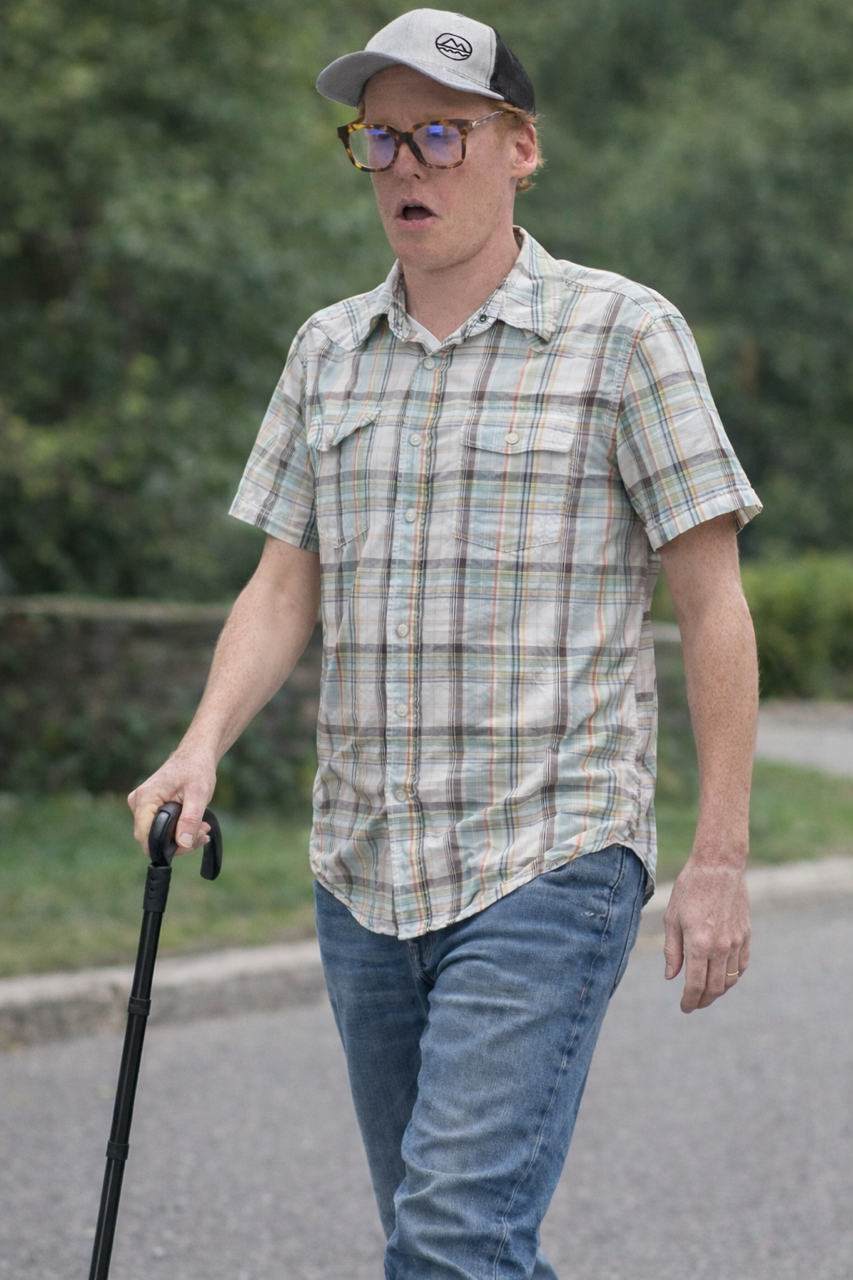
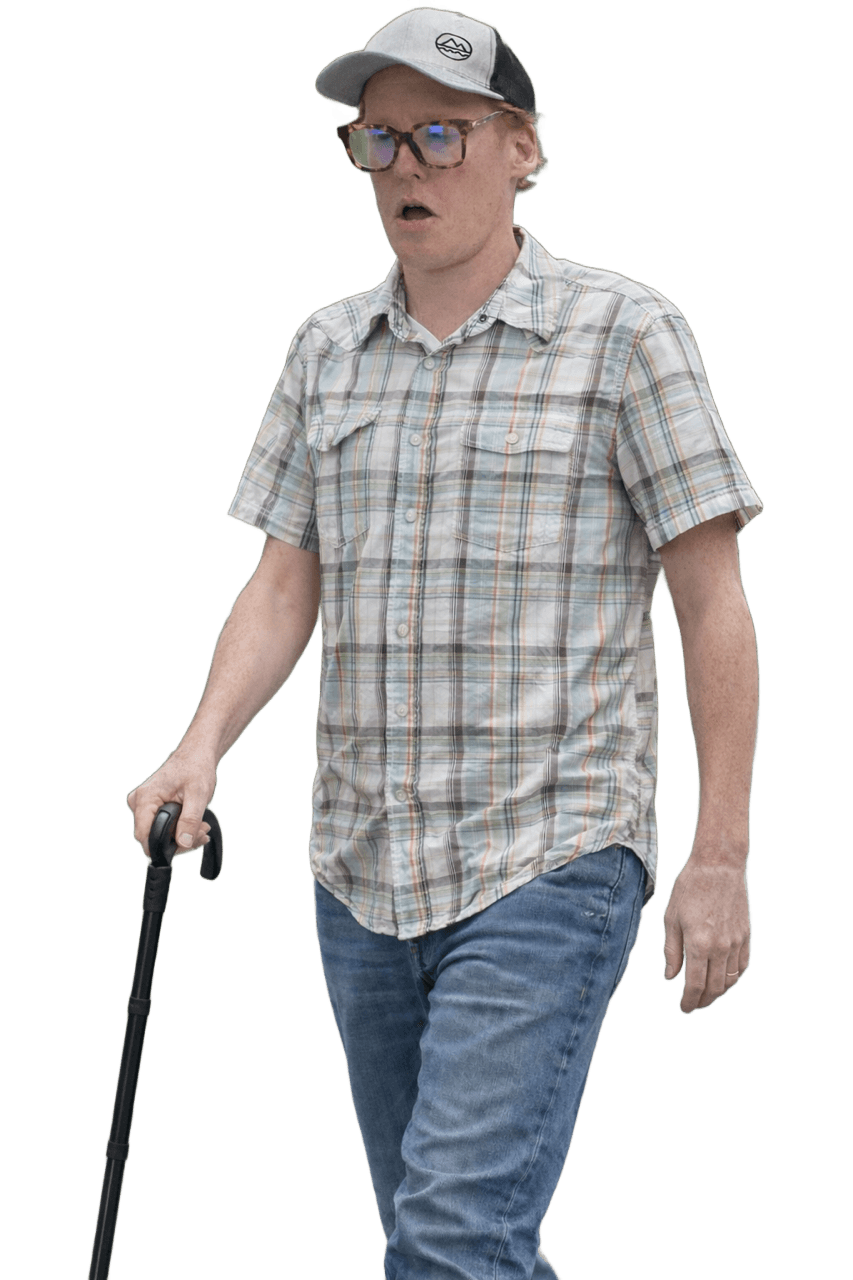
Remove walker background + add wet spot on pants
- Background removed from walker.png for clean cutout
- CSS wet spot overlay on the crotch area
- Removed photo border/shadow since it's now a transparent cutout

diff --git a/tracker.html b/tracker.html
@@ -2275,14 +2275,27 @@
         border-right: 6px solid transparent;
         border-top: 6px solid #fff;
       }
+      .walker-photo-wrap {
+        position: relative;
+        display: inline-block;
+      }
       .walker-photo {
         width: 90px;
         height: 140px;
         object-fit: cover;
         object-position: center top;
-        border-radius: 6px;
-        border: 2px solid rgba(255,255,255,0.6);
-        box-shadow: 0 4px 15px rgba(0,0,0,0.5);
+      }
+      .walker-wet-spot {
+        position: absolute;
+        bottom: 28%;
+        left: 46%;
+        width: 18px;
+        height: 24px;
+        background: radial-gradient(ellipse, rgba(30,50,80,0.55) 0%, rgba(30,50,80,0.3) 40%, transparent 70%);
+        border-radius: 50%;
+        transform: rotate(-8deg);
+        pointer-events: none;
+        filter: blur(1px);
       }
       .walker-shadow {
         width: 70px;
@@ -2302,6 +2315,7 @@
         .walker-photo { width: 60px; height: 95px; }
         .walker-bubble { font-size: 9px; padding: 3px 7px; }
         .walker-shadow { width: 50px; height: 7px; }
+        .walker-wet-spot { width: 12px; height: 16px; }
       }
     </style>
   </head>
@@ -6328,7 +6342,10 @@
       <div class="walker-inner">
         <div class="walker-bubble">My team sucks</div>
         <div class="walker-figure">
-          <img src="walker.png" alt="Walker" class="walker-photo" />
+          <div class="walker-photo-wrap">
+            <img src="walker.png" alt="Walker" class="walker-photo" />
+            <div class="walker-wet-spot"></div>
+          </div>
         </div>
         <div class="walker-shadow"></div>
       </div>
